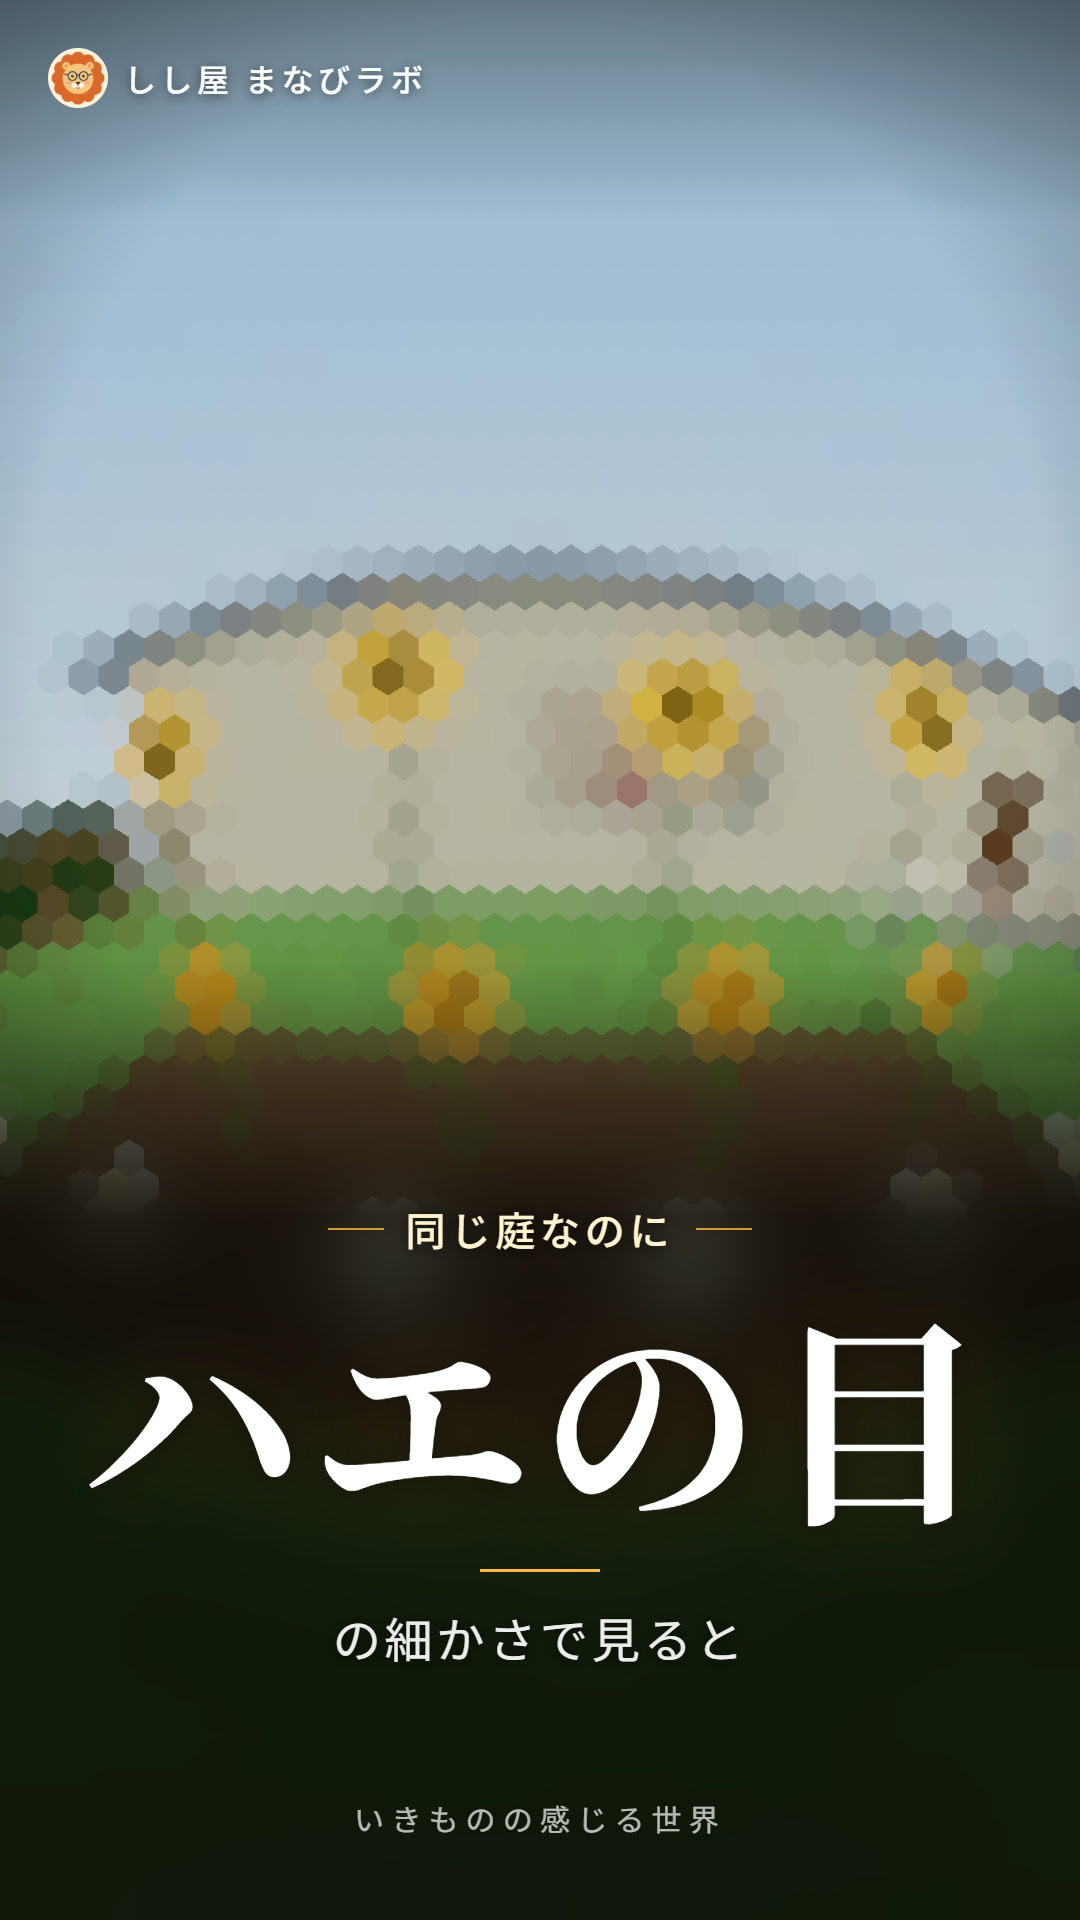
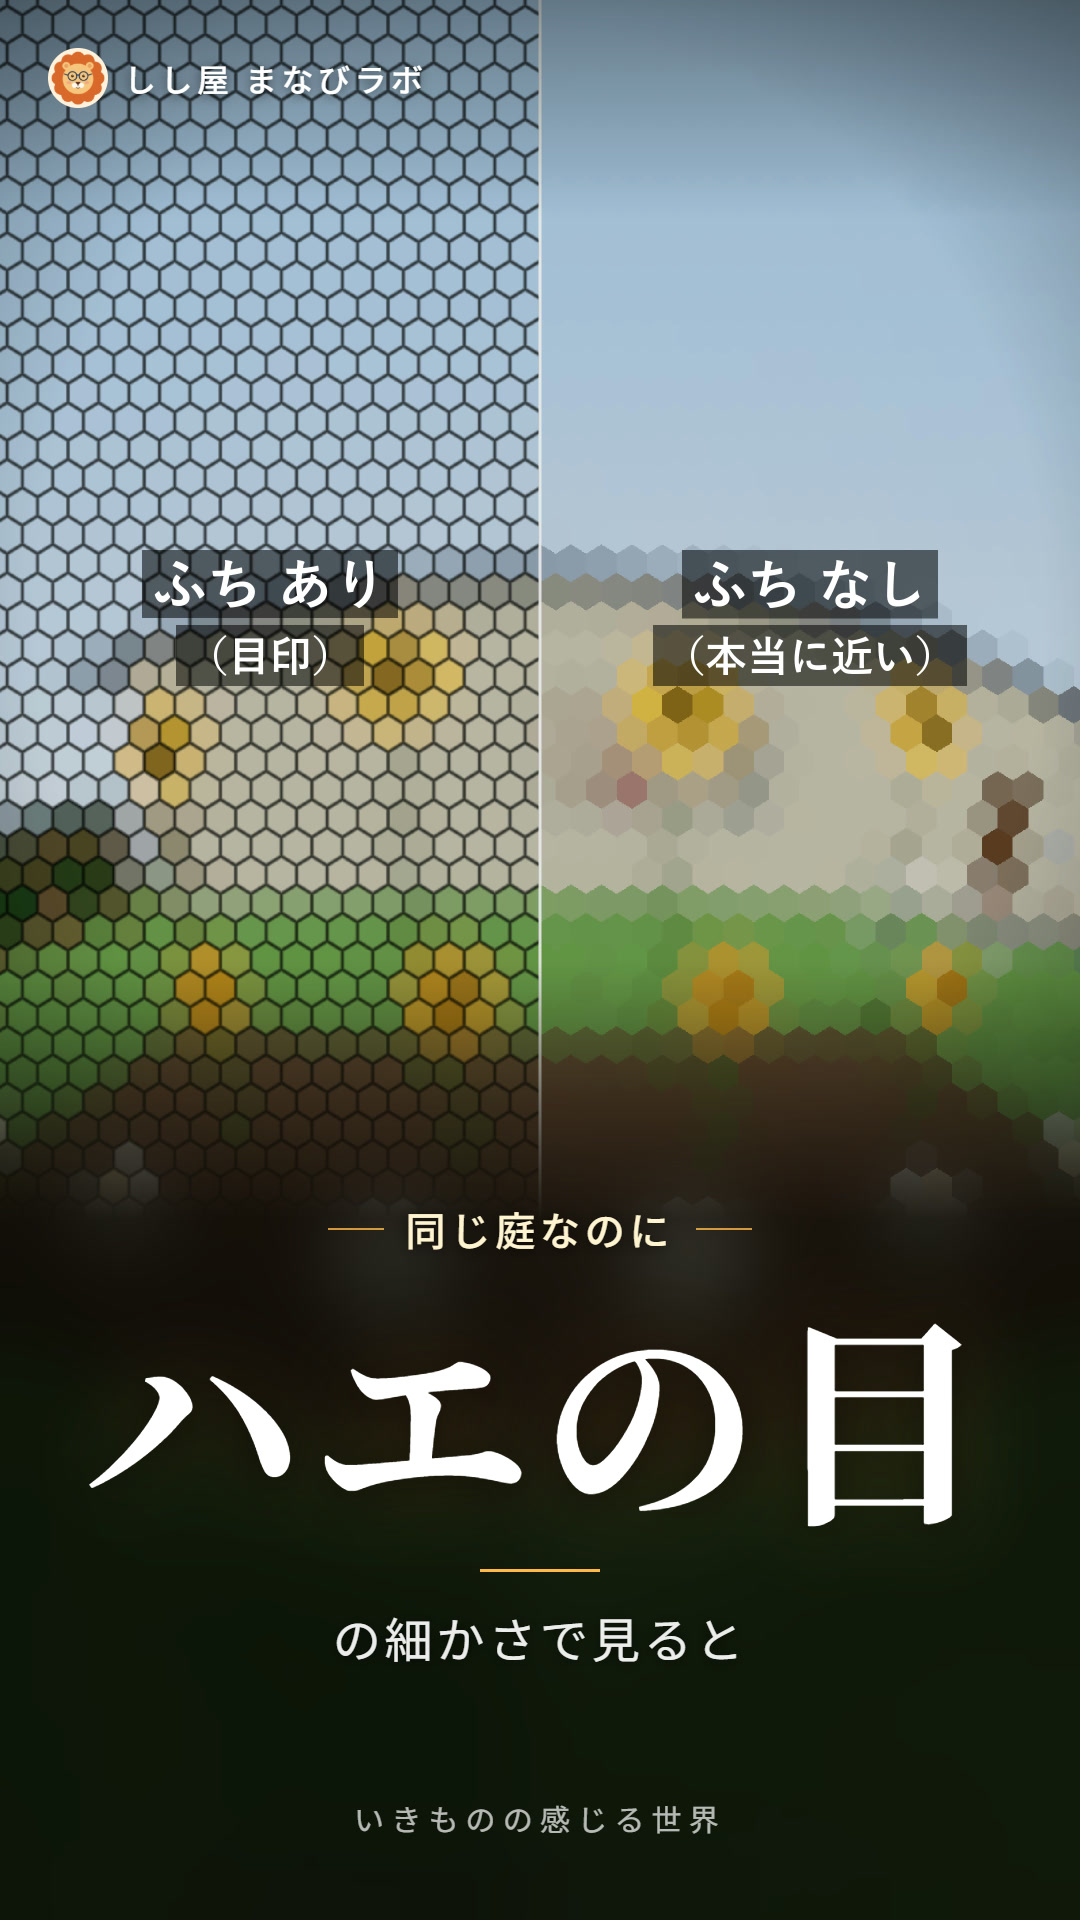
いきものの感じる世界: ハエ・ミツバチの個眼の「ふち」を切りかえに（最初は なし＝本当に近い。黒い線は目印でハエには見えない）。ハエの説明に、ふちは目印・色は人の色のまま（ハエは紫外線も感じ赤に鈍い、Hardie 1985）を日英で。サムネイルは左右に ふち あり／なし の両方

Changed region(s): [[0.0, 0.0, 0.5194, 0.5938], [0.5806, 0.2812, 0.9167, 0.375]]

diff --git a/animal-senses/index.html b/animal-senses/index.html
@@ -64,7 +64,7 @@
       <li><b>Color vision</b> Japanese Ophthalmological Society “Color vision deficiency” (in Japanese): rates in Japan / Machado, Oliveira &amp; Fernandes (2009) IEEE TVCG: computing how color vision deficiency looks</li>
       <li><b>Crow</b> Ödeen &amp; Håstad (2003) Mol Biol Evol: crows have a violet-sensitive (VS) cone / Hart (2001) Prog Retin Eye Res: the four cones and oil droplets of birds / Todesco et al. (2022) eLife: ultraviolet patterns of sunflowers / Siitari, Honkavaara &amp; Viitala (1999) Proc R Soc B: UV reflection of berries and birds</li>
       <li><b>Mamushi</b> Gracheva et al. (2010) Nature: TRPA1 in the pit organ / Bullock &amp; Diecke (1956) J Physiol: sensitivity of the pit membrane / Newman &amp; Hartline (1981) Science: eye and heat images combine in the optic tectum / Simões et al. (2016) Mol Biol Evol: snake cones</li>
-      <li><b>Fly</b> Beersma, Stavenga &amp; Kuiper (1975) J Comp Physiol: layout of housefly ommatidia / Land (1997) Annu Rev Entomol: how sharp insect eyes are</li>
+      <li><b>Fly</b> Beersma, Stavenga &amp; Kuiper (1975) J Comp Physiol: layout of housefly ommatidia / Land (1997) Annu Rev Entomol: how sharp insect eyes are / Hardie (1985) Prog Sens Physiol: fly photoreceptors (UV and color)</li>
       <li><b>Bat</b> Griffin, Webster &amp; Michael (1960) Animal Behaviour: echoes when catching insects / Luo et al. (2007) Zoological Studies: calls of the Japanese house bat (about 100→40 kHz) / Roeder (1963) “Nerve Cells and Insect Behavior”: moths hear ultrasound and dodge / Corcoran, Barber &amp; Conner (2009) Science: moths that jam with sound</li>
       <li><b>Honeybee</b> Peitsch et al. (1992) J Comp Physiol A: the bee’s three color sensors / Seidl &amp; Kaiser (1981) J Comp Physiol A: number of ommatidia and field of view of worker bees / Labhart &amp; Meyer (1999) Microsc Res Tech: the eye rim that senses sky polarization</li>
       <li><b>Mantis shrimp</b> Cronin &amp; Marshall (1989) Nature: more than 10 kinds of light sensors / Thoen et al. (2014) Science: poor at telling colors apart / Chiou et al. (2008) Curr Biol: seeing circular polarization / Streets, England &amp; Marshall (2022) J Exp Biol: the midband and scanning (review)</li>
@@ -79,7 +79,7 @@
       <li><b>色覚</b> 日本眼科学会「色覚異常」: 日本での割合 ／ Machado・Oliveira・Fernandes（2009）IEEE TVCG: 色覚の見え方の計算</li>
       <li><b>カラス</b> Ödeen と Håstad（2003）Mol Biol Evol: カラスの仲間は紫に感度の山（VS型） ／ Hart（2001）Prog Retin Eye Res: 鳥の4種類の錐体と油滴 ／ Todesco ほか（2022）eLife: ヒマワリの紫外線の模様 ／ Siitari・Honkavaara・Viitala（1999）Proc R Soc B: 実の紫外線の反射と鳥</li>
       <li><b>マムシ</b> Gracheva ほか（2010）Nature: ピット器官の TRPA1 ／ Bullock と Diecke（1956）J Physiol: ピットの膜の感度 ／ Newman と Hartline（1981）Science: 視蓋で目と熱の像が重なる ／ Simões ほか（2016）Mol Biol Evol: ヘビの錐体</li>
-      <li><b>ハエ</b> Beersma・Stavenga・Kuiper（1975）J Comp Physiol: イエバエの個眼の並び ／ Land（1997）Annu Rev Entomol: 昆虫の目の細かさ</li>
+      <li><b>ハエ</b> Beersma・Stavenga・Kuiper（1975）J Comp Physiol: イエバエの個眼の並び ／ Land（1997）Annu Rev Entomol: 昆虫の目の細かさ ／ Hardie（1985）Prog Sens Physiol: ハエの視細胞（紫外線・色の感じ方）</li>
       <li><b>コウモリ</b> Griffin・Webster・Michael（1960）Animal Behaviour: 虫を捕まえるときのこだま ／ Luo ほか（2007）Zoological Studies: アブラコウモリの声（約100→40キロヘルツ） ／ Roeder（1963）『Nerve Cells and Insect Behavior』: ガが超音波を聞いてよける ／ Corcoran・Barber・Conner（2009）Science: 音で邪魔するガ</li>
       <li><b>ミツバチ</b> Peitsch ほか（1992）J Comp Physiol A: ハチの3種類の色のセンサー ／ Seidl と Kaiser（1981）J Comp Physiol A: 働きバチの個眼の数と視野 ／ Labhart と Meyer（1999）Microsc Res Tech: 空の偏光を感じる目のふち</li>
       <li><b>シャコ</b> Cronin と Marshall（1989）Nature: 10種類以上の光のセンサー ／ Thoen ほか（2014）Science: 色の見分けは苦手 ／ Chiou ほか（2008）Curr Biol: 円偏光が見える ／ Streets・England・Marshall（2022）J Exp Biol: 真ん中の帯と走査（まとめ）</li>

diff --git a/animal-senses/js/main.js b/animal-senses/js/main.js
@@ -7,6 +7,7 @@ const S = {
   uvK:1, uvOnly:false, pit:true, eye:true, blur:3.5,
   batEye:false, sound:false, pol:true, polOn:true, flicker:false,
   clock:{}, hex:{},                  // per animal: chosen time scale index, ommatidium size
+  hexEdge:false,                     // dark outline around each ommatidium: a guide only (the fly sees one dot per ommatidium, no lines)
   // low vision: type + one value per type (acuity, scotoma radius °, field radius °, cataract 0–1)
   // refraction: type (0 myopia, 1 hyperopia, 2 astigmatism, 3 presbyopia), dioptres per type, age, astig axis
   cv:{ type:1, k:1 }, night:'lit',
@@ -62,6 +63,8 @@ function senseControls() {
     const h = S.hex[k] || a.hex;
     const d = add(`<label class="row"><span class="lab">${L('個眼の大きさ', 'Ommatidium size')}</span><input type="range" id="hex" min="1" max="8" step="0.25" value="${h}"><span class="mono" id="hexV">${h.toFixed(1)}°</span></label>`);
     d.querySelector('#hex').oninput = e => { S.hex[k] = +e.target.value; $('hexV').textContent = S.hex[k].toFixed(1) + '°'; };
+    const eg = add(`<div class="row seg" role="group" aria-label="${L('個眼のふち', 'Ommatidium outlines')}"><span class="lab">${L('ふち', 'Outlines')}</span>${[[false, L('なし（本当に近い）', 'Off (closer to real)')], [true, L('あり（目印）', 'On (guide only)')]].map(([v, t]) => `<button data-v="${v}" aria-pressed="${S.hexEdge === v}">${t}</button>`).join('')}</div>`);
+    eg.querySelectorAll('button').forEach(b => b.onclick = () => { S.hexEdge = b.dataset.v === 'true'; senseControls(); });
   }
   if (a.types) {
     const st = k === 'low' ? S.lv : k === 'cvd' ? S.cv : S.rf;
@@ -306,7 +309,7 @@ function step(dt) {
   renderFrame({
     animal:k, split:S.split && k !== 'human', lampK:lampFlicker(clock, S.t, S.flicker),
     uvK:S.uvK, uvOnly:S.uvOnly, pit:S.pit, eye:k === 'bat' ? S.batEye : S.eye, blur:S.blur, time:S.t,
-    calls:SX.calls, nowT:S.t, tau:0.12, hex:S.hex[k] || a.hex || 3, pol:S.pol,
+    calls:SX.calls, nowT:S.t, tau:0.12, hex:S.hex[k] || a.hex || 3, hexEdge:S.hexEdge, pol:S.pol,
     scan:0.5 + 0.36 * Math.sin(S.t * 0.8), polOn:S.polOn,
     lvType: k === 'low' ? S.lv.type : k === 'cvd' ? S.cv.type : (S.rf.type === 2 ? 2 : 0), lvR: S.lv.v[S.lv.type],
     lvK: k === 'cvd' ? S.cv.k : S.lv.v[3], lvSigma: lvSigma(),

diff --git a/_dev/promo/short-thumbs.js b/_dev/promo/short-thumbs.js
@@ -7,7 +7,8 @@ window.SHORT_THUMBS = {
   'body-dive':     { name: '体内ダイブ', t: 3.4, focus: [0.5, 0.3], zoom: 1.15, kicker: 'カプセル内視鏡になって', big: '口から肛門', sub: 'まで旅してみた', c1: '#ffffff', c2: '#ffd36b' },
   'black-hole':    { name: 'ブラックホールの見え方', t: 20, focus: [0.5, 0.36], zoom: 1.35, kicker: '映画では省かれた、本当の姿', big: 'ブラックホール', sub: '本当は左が明るい', c1: '#fff6d8', c2: '#ffb347' },
   // 2026-10-16: カラスの目（人の目とほぼ同じ絵で目立たなかった）→ ハエの目。ショートにハエの場面はないので、アプリの絵を stills/ に（4K で撮って真ん中を縦に切り出し）
-  //   本当のことだけ: 個眼のふち（アプリの目印の黒い線）は消して撮った（ハエにふちは見えない。六角形1つ＝個眼1つの画素）。色は人の色のままなので、言葉は「細かさ」だけ
+  //   本当のことだけ: 左半分＝ふち あり（目印）、右半分＝ふち なし（本当に近い。ハエに線は見えない）。アプリの「ふち」の切りかえで同じ場所（ハエ・昼・「花壇の上」）を 3840×2160 で2枚撮り、
+  //   真ん中 1215 幅の左右を ffmpeg でつないで 2160×3840 に、ラベルは drawtext（游ゴシック Bold）。色は人の色のままなので、言葉は「細かさ」だけ
   'animal-senses': { name: 'いきものの感じる世界', t: 8, still: 'stills/animal-senses-fly.jpg', focus: [0.5, 0.36], zoom: 1, wzoom: 0.5, wfocus: [0.5, 0.42], kicker: '同じ庭なのに', big: 'ハエの目', sub: 'の細かさで見ると', c1: '#fff3d0', c2: '#ffb84a' },
   'quantum':       { name: '量子の実験室', t: 17, focus: [0.5, 0.3], zoom: 1.6, kicker: '電子を1個ずつ飛ばすと', big: 'しま模様', sub: 'が現れる ― 二重スリット', c1: '#fff3a0', c2: '#ffc21e' },
   'metamorphosis': { name: 'さなぎの中で', t: 13, focus: [0.5, 0.36], zoom: 1.7, kicker: 'イモムシがガになるまで18日', big: 'さなぎの中', sub: 'はどうなってる？', c1: '#e0fbff', c2: '#43d3ff' },

diff --git a/animal-senses/js/render.js b/animal-senses/js/render.js
@@ -75,7 +75,7 @@ function initRender(canvas) {
     uniforms:{
       tCube:{ value:R.cubeVis.texture }, tCubeUV:{ value:R.cubeUV.texture }, tVis:{ value:R.rtVis.texture },
       uRot:{ value:new THREE.Matrix3() }, uRes:{ value:new THREE.Vector2() }, uPx:{ value:new THREE.Vector2() },
-      uDegPx:{ value:new THREE.Vector2(0.5, 0.5) }, uHex:{ value:3 }, uExp:{ value:1 }, uNight:{ value:0 }, uSplit:{ value:0 }, uPol:{ value:1 },
+      uDegPx:{ value:new THREE.Vector2(0.5, 0.5) }, uHex:{ value:3 }, uEdge:{ value:0 }, uExp:{ value:1 }, uNight:{ value:0 }, uSplit:{ value:0 }, uPol:{ value:1 },
       uSunUp:{ value:1 }, uTime:{ value:0 }, uSense:{ value:0 }, uSunDir:v3(), uGrain:{ value:0.035 }, uExpH:{ value:1 },
     },
     vertexShader:SH.QUAD_VS, fragmentShader:SH.CUBE_FS, depthTest:false,
@@ -123,7 +123,7 @@ function pass(mode, rt) {
   R.renderer.render(R.scene, R.cam);
 }
 
-// o: { animal, split, lampK, uvK, uvOnly, pit, eye, blur, time, calls[], nowT, tau, hex, pol, scan, polOn }
+// o: { animal, split, lampK, uvK, uvOnly, pit, eye, blur, time, calls[], nowT, tau, hex, hexEdge, pol, scan, polOn }
 function renderFrame(o) {
   const tm = R.tm, U = R.U, k = o.animal;
   U.uCamPos.value.copy(R.cam.position);
@@ -144,7 +144,7 @@ function renderFrame(o) {
     if (o.split) pass(0, R.rtVis);
     cm.uRot.value.setFromMatrix4(R.cam.matrixWorld);
     cm.uSense.value = SENSE_ID[k]; cm.uSplit.value = o.split ? 1 : 0;
-    cm.uHex.value = o.hex; cm.uPol.value = o.pol ? 1 : 0;
+    cm.uHex.value = o.hex; cm.uEdge.value = o.hexEdge ? 1 : 0; cm.uPol.value = o.pol ? 1 : 0;
     cm.uExp.value = tm.exp * dk.gain; cm.uGrain.value = dk.grain; cm.uNight.value = tm.night; cm.uTime.value = o.time % 100;
     R.renderer.setRenderTarget(null);
     R.renderer.render(R.cubeScene, R.qcam);

diff --git a/animal-senses/js/data.js b/animal-senses/js/data.js
@@ -128,6 +128,8 @@ const ANIMALS = {
     facts:[
       ['s','複眼は小さな目（個眼）の集まりで、イエバエでは片目に約3000個ある。1つの個眼が、だいたい画面の1つの点（画素）になる。'],
       ['e','となりの個眼との角度は数度あり、細かいものを見る力は人の数十分の1ほど。六角形1つが個眼1つ（大きさはスライダーで変えられる）。'],
+      ['a','六角形のまわりの黒い線（「ふち あり」）は、個眼の区切りを分かりやすくする目印。ハエに線は見えず、個眼1つ分が1つの点になる（「ふち なし」のほうが本当に近い）。'],
+      ['a','色は人の目の色のまま描いている。ハエは紫外線も感じ、赤はあまり感じないので、本当の色の見え方はこれとちがう。'],
       ['s','左右の複眼で、真後ろの少しをのぞくほぼ全周を一度に見られる。画面は左右約330°・上下約170°を1枚に広げて表示している。'],
       ['e','ちらつきを見分けられる速さは、人がおよそ1秒に60回なのに対し、ハエの仲間は200〜300回くらいという測定がある（種類や測り方で幅がある目安）。'],
       ['e','昔ながらの蛍光灯（東日本の50Hz）は1秒に100回明るさがゆれる。人には分からないが、ハエにはちらついて見えている可能性がある。'],

diff --git a/animal-senses/js/text-en.js b/animal-senses/js/text-en.js
@@ -88,6 +88,8 @@ if (LANG === 'en') {
       facts:[
         'A compound eye is a group of tiny eyes (ommatidia). A housefly has about 3000 in each eye. Each ommatidium is roughly one dot (pixel) of the picture.',
         'Neighboring ommatidia point a few degrees apart, so the fly sees detail tens of times less sharply than a human. One hexagon = one ommatidium (change its size with the slider).',
+        'The dark lines around the hexagons (“Outlines: On”) are only a guide to show where each ommatidium is. The fly sees no lines; each ommatidium gives one dot (“Off” is closer to real).',
+        'The colors are drawn as human eyes see them. Flies also sense ultraviolet and are not very sensitive to red, so the colors they really see are different.',
         'The two compound eyes see almost all the way around at once, except a little right behind. The screen spreads about 330° side to side and 170° up and down into one picture.',
         'Humans can see flicker up to about 60 times a second; measurements for flies are about 200–300 times (a rough guide that varies by species and method).',
         'Old fluorescent lights (on 50 Hz power in eastern Japan) brighten and dim 100 times a second. Humans cannot tell, but to a fly it may look like flickering.',

diff --git a/animal-senses/js/shaders.js b/animal-senses/js/shaders.js
@@ -342,7 +342,7 @@ void main(){
 // Panoramic compound eye (fly = 0, bee = 1). Screen -> (azimuth, elevation) in degrees -> hexagonal ommatidia lattice
 SH.CUBE_FS = `
 uniform samplerCube tCube, tCubeUV; uniform sampler2D tVis;
-uniform mat3 uRot; uniform vec2 uRes, uPx, uDegPx; uniform float uHex, uExp, uExpH, uNight, uSplit, uPol, uSunUp, uTime;
+uniform mat3 uRot; uniform vec2 uRes, uPx, uDegPx; uniform float uHex, uEdge, uExp, uExpH, uNight, uSplit, uPol, uSunUp, uTime;
 uniform int uSense; uniform vec3 uSunDir;
 varying vec2 vUv;
 ` + SH.COMMON + `
@@ -378,7 +378,7 @@ void main(){
     }
   }
   float hd = max(dot(abs(gv), vec2(0.5, 0.8660254)), abs(gv.x));
-  if (uHex / max(uDegPx.x, uDegPx.y) > 3.0) col *= mix(1.0, 0.3, smoothstep(0.4, 0.5, hd));
+  if (uEdge > 0.5 && uHex / max(uDegPx.x, uDegPx.y) > 3.0) col *= mix(1.0, 0.3, smoothstep(0.4, 0.5, hd));
   float edge = smoothstep(150.0, 168.0, abs(deg.x));      // small blind zone straight behind
   gl_FragColor = vec4(mix(col, vec3(0.02, 0.02, 0.03), edge), 1.0);
 }`;

diff --git a/animal-senses/DEVNOTES.md b/animal-senses/DEVNOTES.md
@@ -59,7 +59,7 @@
    ```
 2. カラス・昼・「ゴミ袋」・紫外線だけ: 白い袋は中身が見え、黄色い袋は暗く一様。「ヒマワリ」: 花びらの先が紫。
 3. マムシ・夜・「ネズミ」（`__as.S.t=0` にしてから）: ネズミがオレンジに光る。「窓の中の人」: 熱では光らない。
-4. ハエ: 六角形の全周表示。テーブルでじっとしていると約3秒（世界時間）でハエたたきが来て「たたかれた」、動けば「よけた」。夜・ハエの速さで「灯りのちらつきを見る」を入れたときだけ、玄関の灯りが少しちらつく（最初は切）。
+4. ハエ: 六角形の全周表示。「ふち」は最初「なし」で六角形の色の点だけ、「あり」で黒い線が出る（ミツバチも同じ）。テーブルでじっとしていると約3秒（世界時間）でハエたたきが来て「たたかれた」、動けば「よけた」。夜・ハエの速さで「灯りのちらつきを見る」を入れたときだけ、玄関の灯りが少しちらつく（最初は切）。
    ```js
    __as.setAnimal('fly',false); const log=[]; for(let i=0;i<1200;i++){ __as.frame(1); const p=__as.SX.sw.phase; if(log.at(-1)!==p) log.push(p); } [log, __as.SX.hits]
    ```
@@ -93,6 +93,7 @@
 - v5（2026-10-04）灯りのちらつきは選んだときだけ、ゆれも小さく（光過敏性発作への配慮。`prefers-reduced-motion` では出さない）。
 - v5b（2026-10-04）「このアプリについて」の下に、見え方は推定で診断には使えないこと、使っているもの（Three.js＝MIT、フォント＝SIL OFL）を追加（`.fine`）。
 - v5e（2026-10-07）おもな出どころを画面に（RULES 9。`index.html` の `details.src`）。確かめ直して直したところ: ネコの暗い所の見え方「人の6〜7倍（推定）」→ Kang ほか（2009）の同じ方法での比較で「約5倍（確か）、差はおもに瞳とタペタム」。満月の夜「約0.2ルクス」→ Kyba ほか（2017）で「約0.05〜0.3ルクス」、星明かり・まっくらのルクスは「目安」。ロービジョンの人数は「2007年時点の推計（日本眼科医会 2009）」。イエバエの個眼「数千個」→「約3000個」（Beersma ほか 1975）、ミツバチ「約5000個」→「5000個あまり」（Seidl と Kaiser 1981）。ピットの感度に Bullock と Diecke（1956）の約0.003℃。ハエのちらつき 200〜300回・ネコの視力・ミツバチの細かさは出典を確かめきれず「目安」と書いた。**黄色いゴミ袋の効き目は論文が見つからず、メーカーの説明のまま（推定）**。ジーンズ（インディゴ）が近赤外線で白い件も論文を載せていない（推定のまま）。
+- 2026-10-16 ハエ・ミツバチの「ふち」の切りかえ（`S.hexEdge`、シェーダーの `uEdge`）: 最初は **なし（本当に近い）**。六角形の黒い線は個眼の区切りの目印で、ハエには見えない（ユーザー: うそは詐欺になる）。ハエの説明に、ふちは目印・色は人の色のまま（ハエは紫外線も感じ赤に鈍い。Hardie 1985 を出どころに）を足した（日英）。紹介動画のサムネイルも左右で両方（`_dev/promo/short-thumbs.js`）。
 - v5f（2026-10-10）英語対応（JP／EN の切り替え。英語の文は `js/text-en.js`・main.js・senses.js の `L()`、HTML は `lang` 属性）。日本語の表示は v5e と同じ。
 
 ## 残っている課題・案
